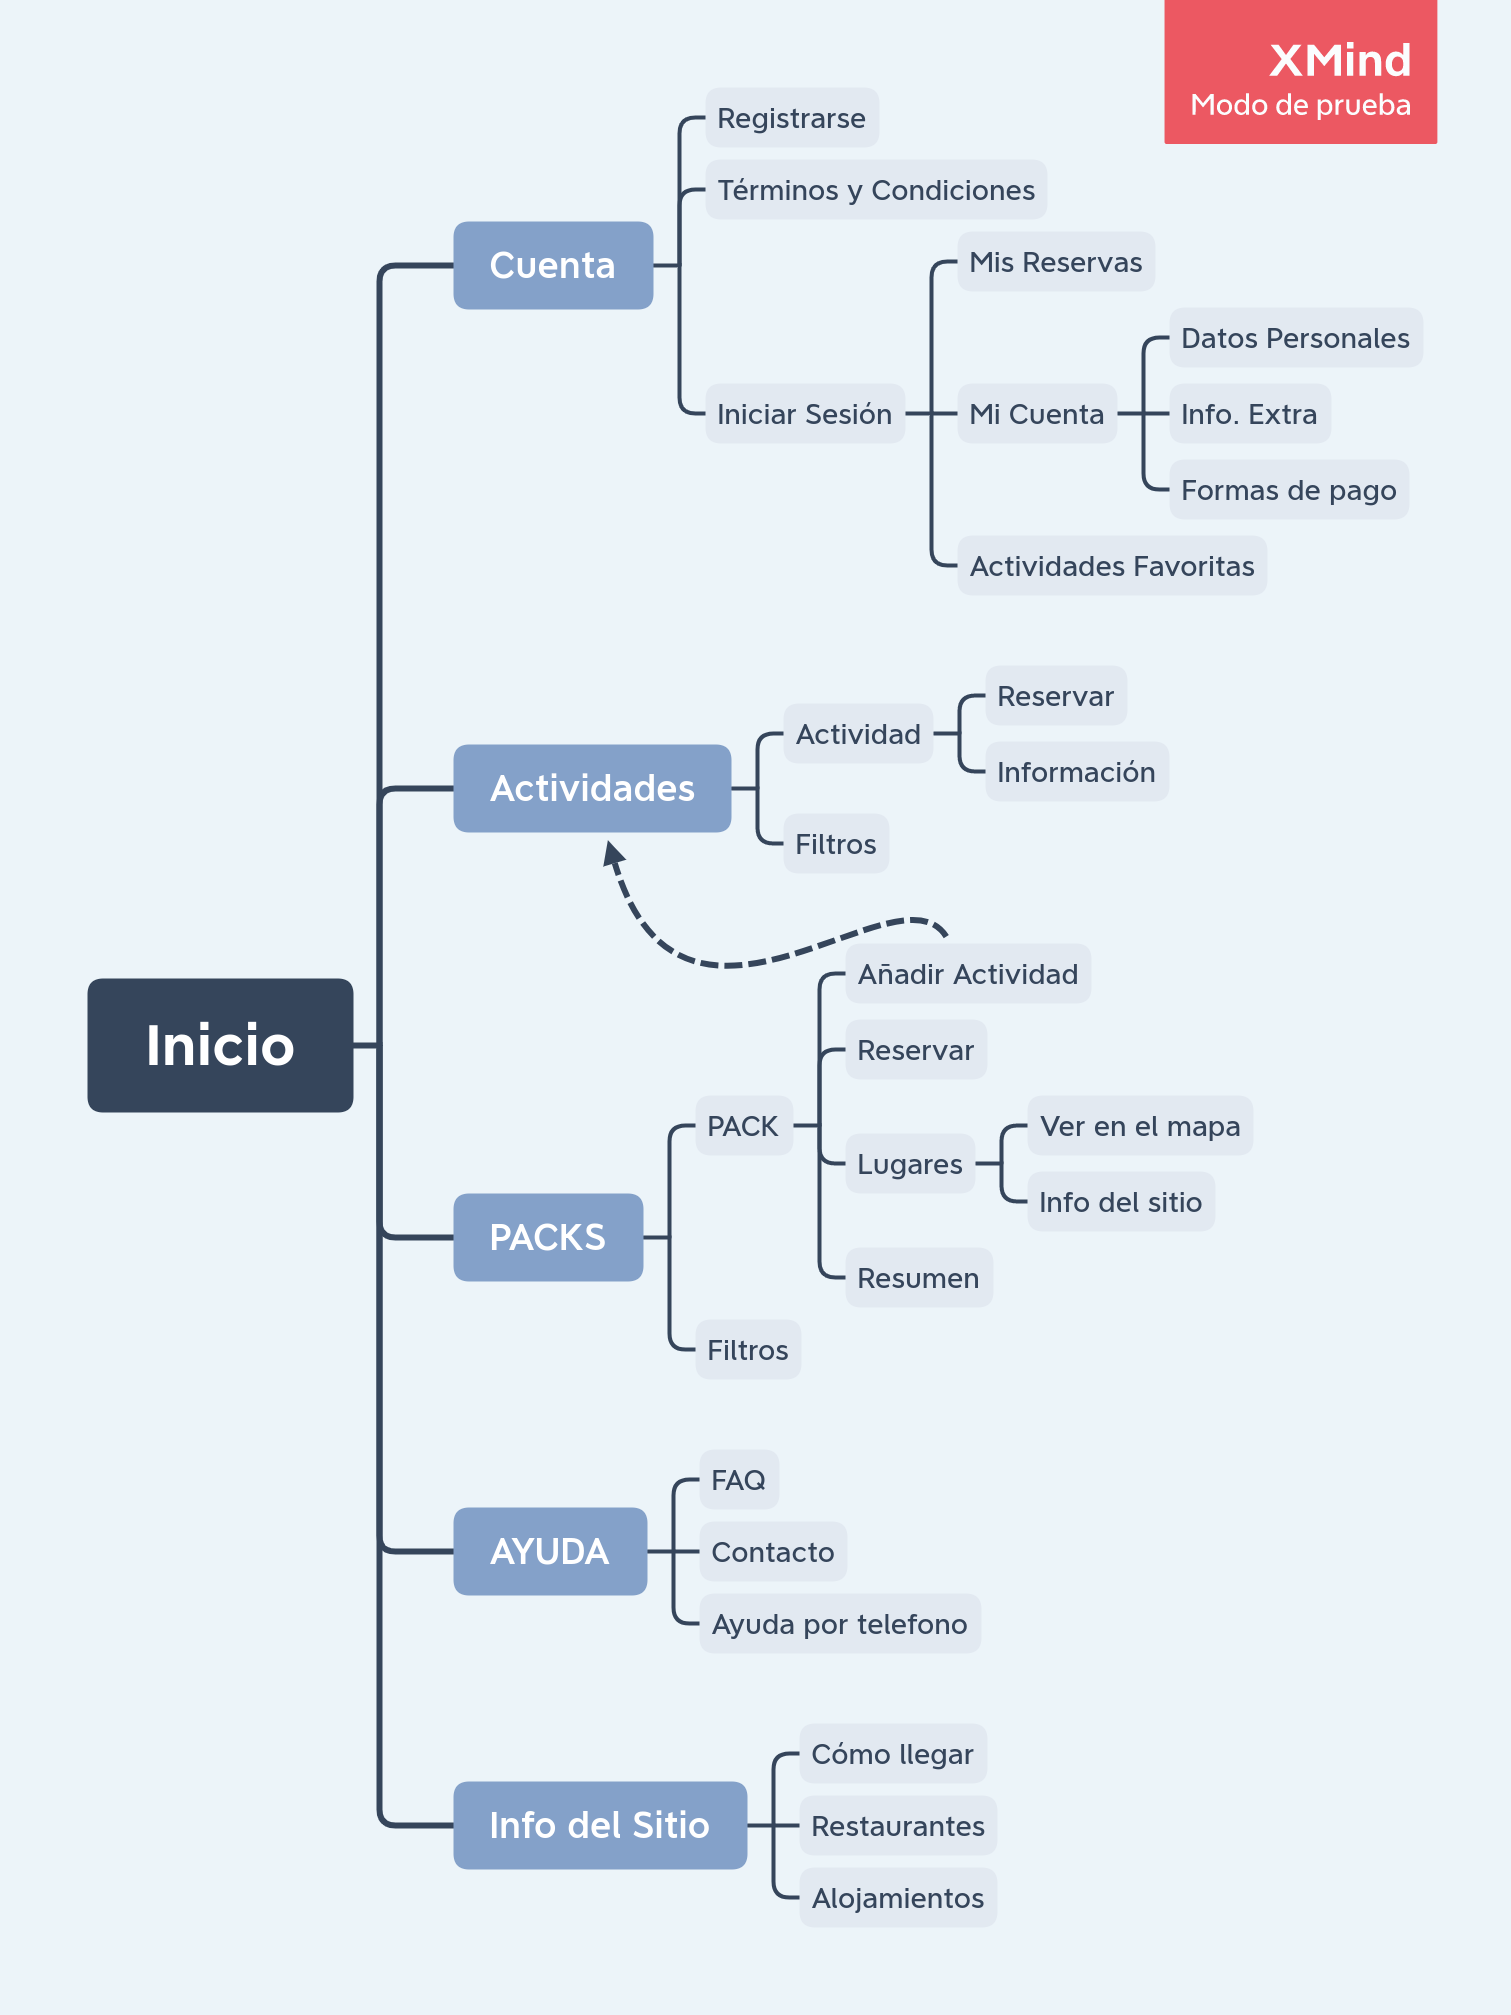
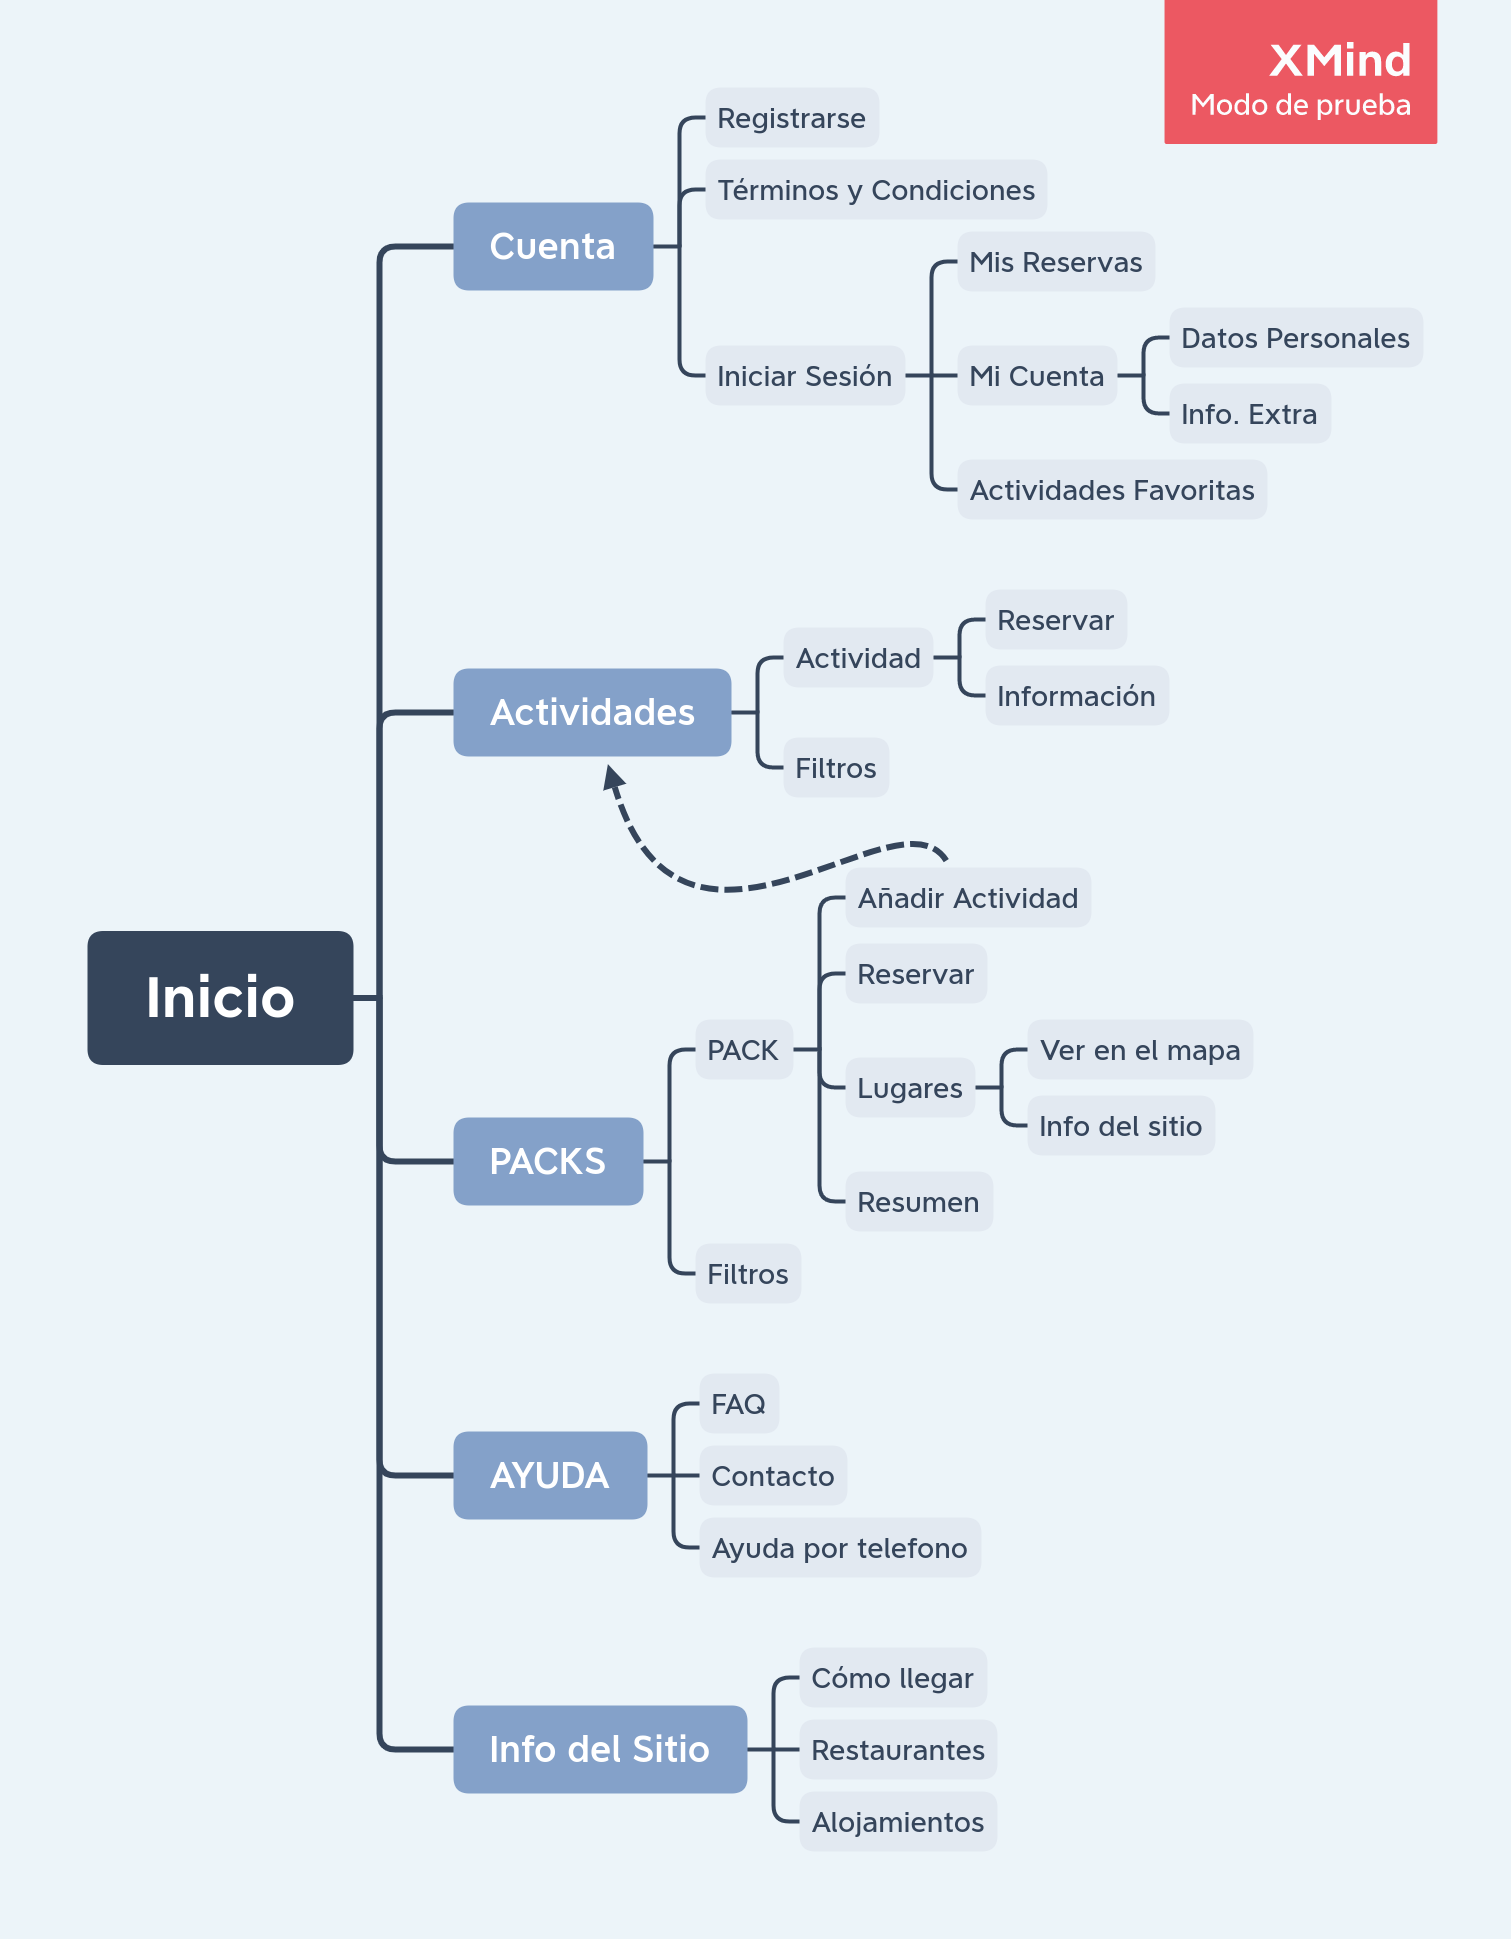
Añadido Labelling y corregido SiteMap

diff --git a/P2/README.md b/P2/README.md
@@ -25,7 +25,7 @@ Por lo tanto como tenemos 3 tipos de usuarios bien marcados, vamos a hacer el an
 Los valores de la tabla según el uso de la funcion son: High(H), Medium(M), Low(L)
 
 |TAREAS|GRUPO 1|GRUPO 2|GRUPO 3|
-|:------------------------------:|:------:|:------:|:------:|
+|------------------------------|:------:|:------:|:------:|
 |Registrarse|L|L|L|
 |Iniciar Sesion|H|M|M|
 |Mostrar Actividad|H|M|M|
@@ -49,6 +49,42 @@ Los valores de la tabla según el uso de la funcion son: High(H), Medium(M), Low
 * Sitemap 
 ![SiteMap](sitemap.png)
 * Labelling 
+
+|Label|Descripción|
+|---------------------|--------------------------------------|
+|Cuenta|Sección que lleva a la cuenta del usuario|
+|Registrarse|Método para registar un nuevo usuario|
+|Terminos y condiciones|Visualización de los términos y condiciones de la aplicación|
+|Iniciar Sesión|Método para que un usuario inicie sesión|
+|Mis Reservas|Sección en la que el usuario puede ver sus reservas|
+|Mis datos|Sección en la que el usuario puede ver sus datos|
+|Actividades Favoritas|Actividades marcadas como favoritas por el usuario|
+|Datos Personales|Muestralos datos personasles del usuario|
+|Info. Extra|Muestra información extra sobre el usuario|
+|Actividades|Sección en la que se puede realizar la reserva de actividades|
+|Actividad|Actividad individual que el usuario puede reservar|
+|Reservar|Reserva la actividad para el usuario|
+|Información|Muestra información de la actividad|
+|Filtros|Apartado de filtros que el usuario puede seleccionar para que se le muestren las actividades más acordes|
+|PACKS|Sección de reserva de packs|
+|PACK|Conjunto de visitas y actividades que el usuario puede reservar|
+|Añadir Actividad|Añade una actividad a un pack|
+|Reservar|Reserva el pack para el usuario|
+|Lugares|Lugares que sé visitarán al elegir este pack|
+|Ver en el mapa|Visualización mediante un mapa del lugar que se va a visitar|
+|Info del sitio|Información del lugar que se va a visitar|
+|Resumen|Resumen del viaje que muestra la planificación de las actividades en orden cronológico y por días|
+|Filtros|Apartado de filtros que el usuario puede seleccionar para que se le muestren los packs más acordes|
+|Ayuda|Sección de ayuda al usuario|
+|FAQ|Sección de preguntas frecuentes|
+|Contacto|Muestra varias opciones de contacto con la organización|
+|Ayuda por teléfono|Teléfono de ayuda al cliente|
+|Información|Sección de información sobre  el Geoparque|
+|Cómo llegar|Muestra un mapa de la situación geográfica del Geoparque|
+|Restaurantes|Muestra restaurantes/bares cercanos al Geoparque bien valorados|
+|Alojamientos|Muestra alojamientos cercanos al Geoparque bien valorados|
+
+
 
 
 ### Prototipo Lo-FI Wireframe 
